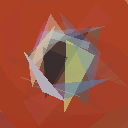
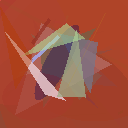
softmax selection

diff --git a/config.py b/config.py
@@ -1,3 +1,4 @@
+
 IMAGE_SIZE = (128, 128)
 NUM_GENES = 50
 TARGET_IMAGE_NAME = "Hilma_af_Klint_Svanen_128x128.png"
@@ -14,7 +15,9 @@ SAVE_EVERY_N_GENERATIONS = 50
 OUTPUT_DIR = "outputs"
 
 # Reproducibility (optional)
-RANDOM_SEED = 239
+RANDOM_SEED = 42
+
+SELECTION_STRATEGY = "softmax"
 
 GENE_LOCAL_MUTATION_PROB = 0.8  # например 80% локальный сдвиг, 20% полный ресет
 
